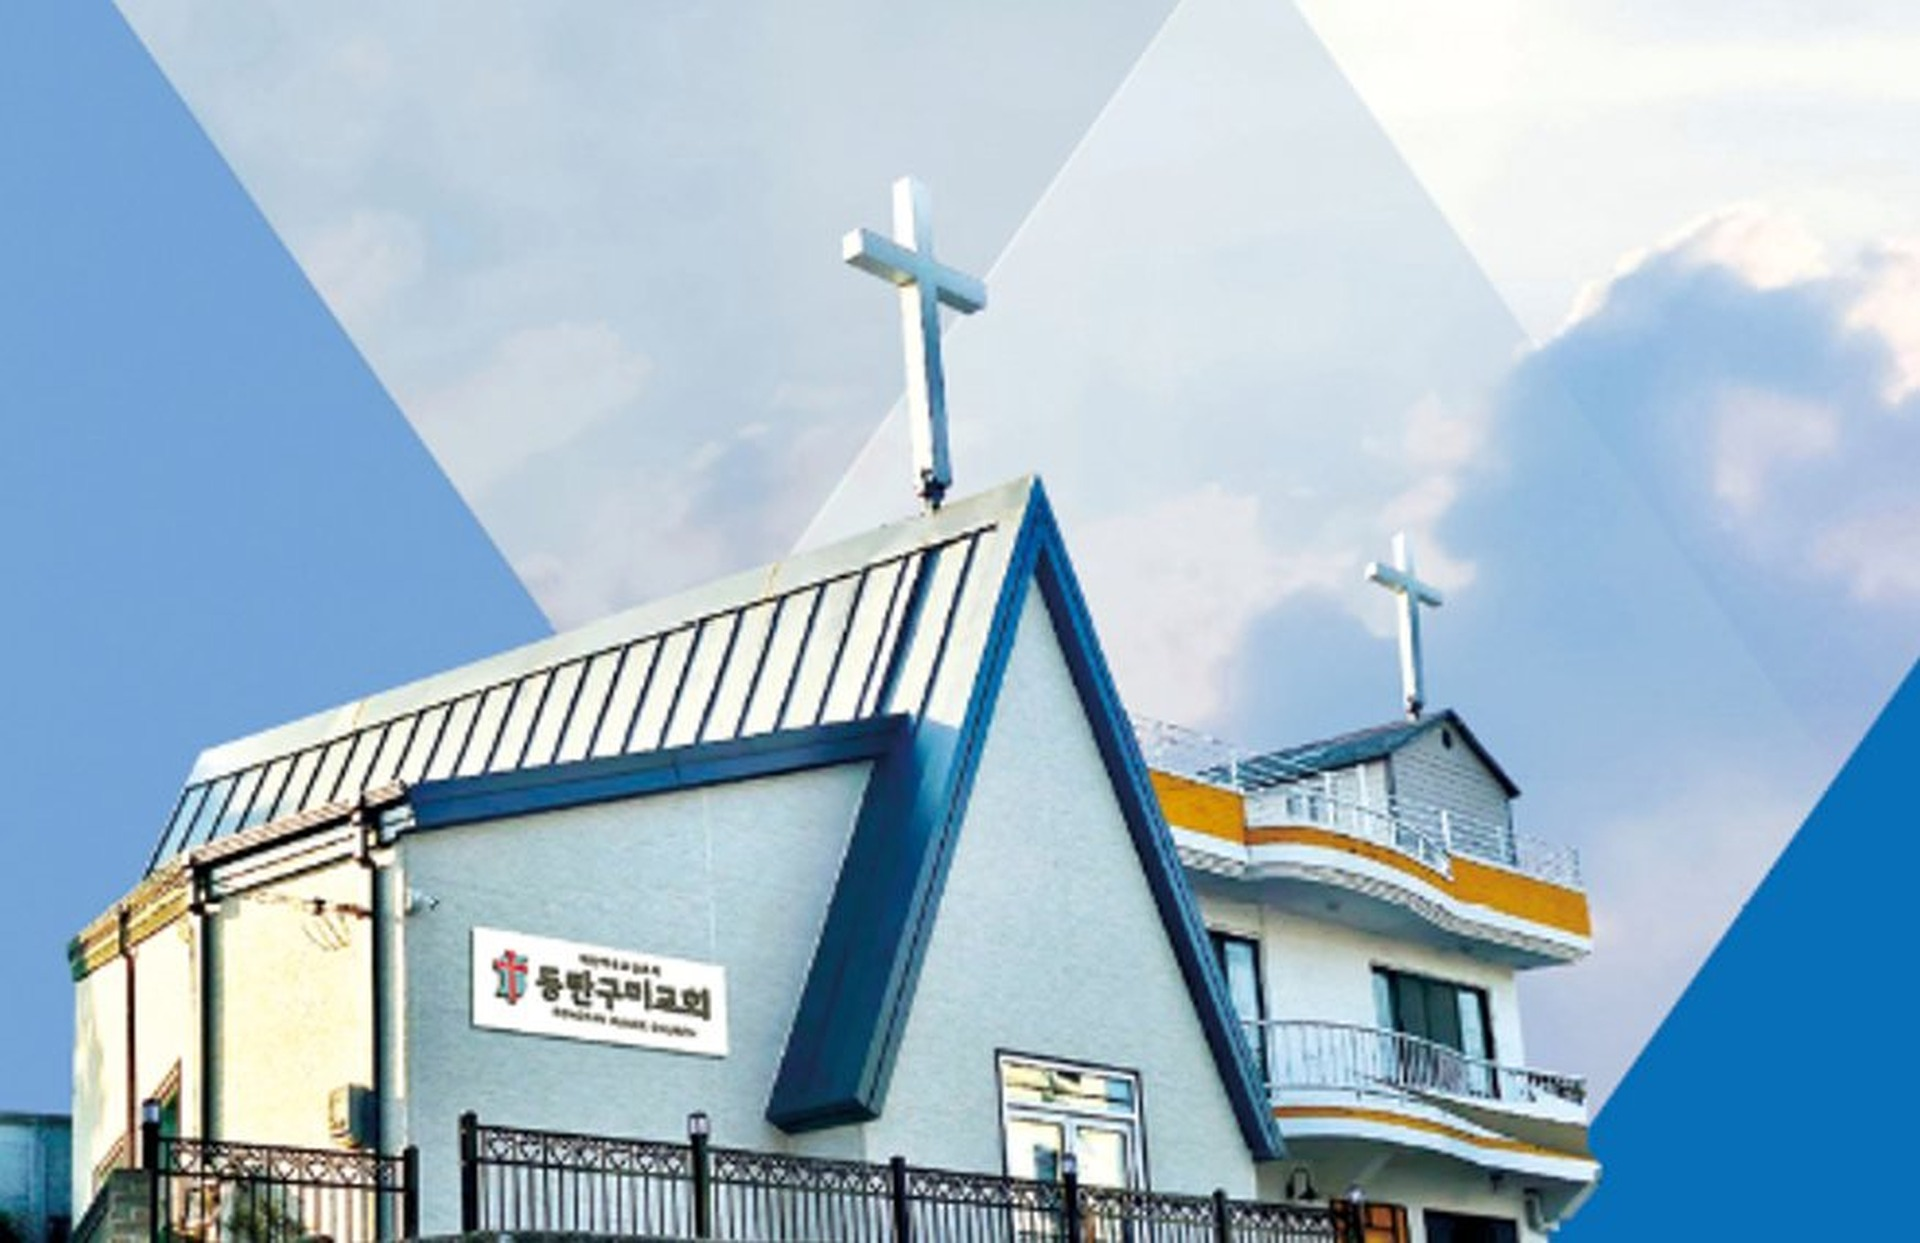
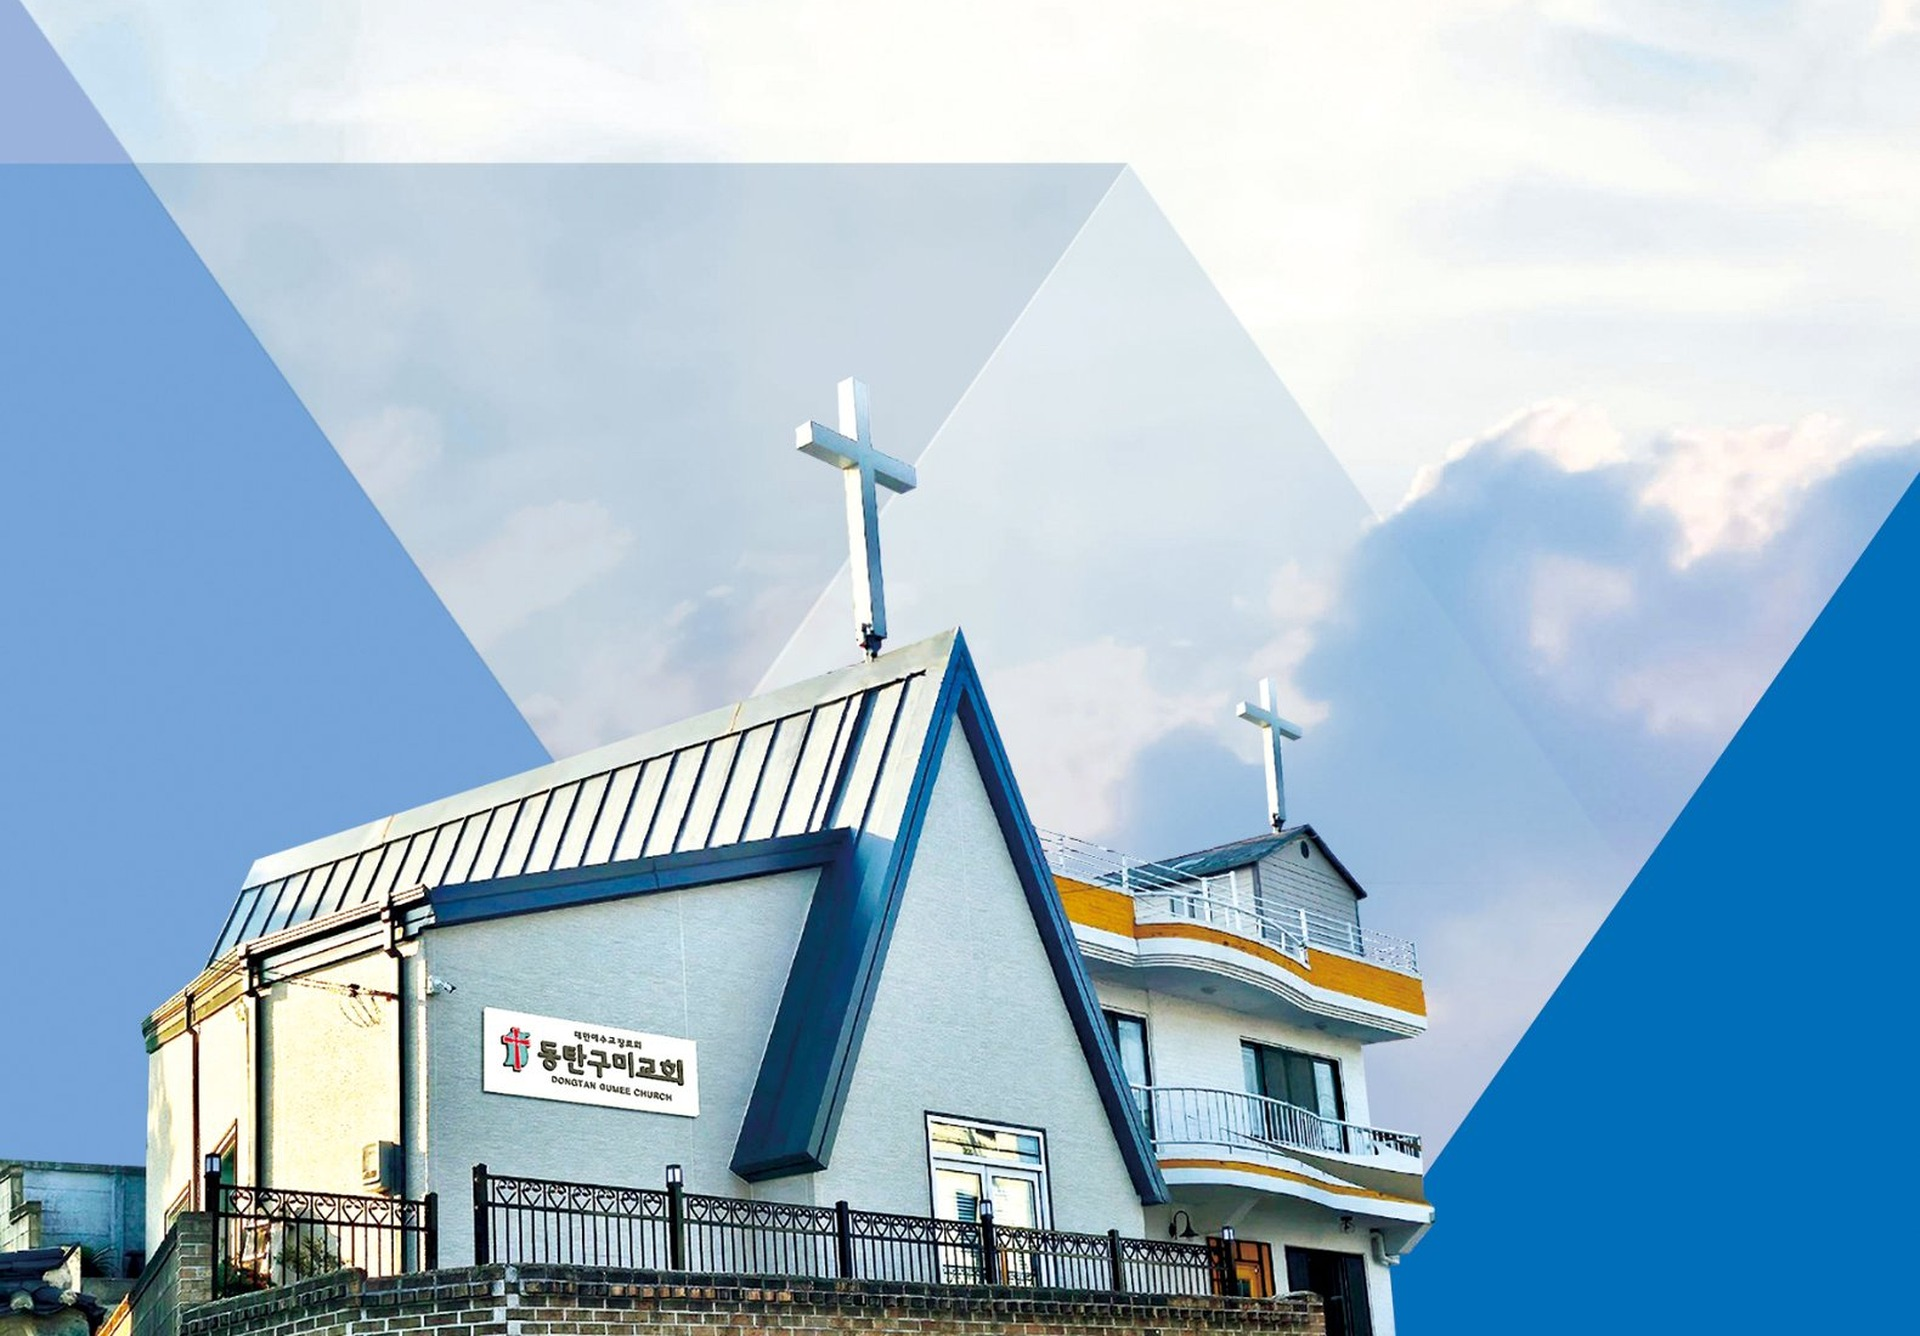
feat: 고객 자료 반영 - 실제 사진, 연혁, 약도 업데이트
- 히어로 이미지 v3 고화질 버전으로 교체
- 박명수 목사/김애경 전도사 실제 사진 적용
- 교회 연혁 8개 항목 반영 (2017~2024)
- 오시는 길 페이지에 교회 약도 이미지 추가
- about 페이지 하단 중복 사진 영역 제거

diff --git a/app/contact/page.tsx b/app/contact/page.tsx
@@ -13,8 +13,8 @@ export default function ContactPage() {
         {/* Hero */}
         <section className="page-hero">
           <Image
-            src="https://images.unsplash.com/photo-1708179538422-373c25988a5f?w=1920&h=600&fit=crop"
-            alt="교회 건물"
+            src="/church-hero.jpg"
+            alt="동탄구미교회 전경"
             fill
             className="object-cover"
             priority
@@ -34,21 +34,20 @@ export default function ContactPage() {
         <section className="section bg-white">
           <div className="container-custom">
             <div className="grid lg:grid-cols-2 gap-12">
-              <div className="rounded-2xl overflow-hidden min-h-[400px] relative">
+              <div className="rounded-2xl overflow-hidden bg-white border border-brown-100 p-4">
                 <Image
-                  src="https://images.unsplash.com/photo-1761530027871-5e0f4c13744d?w=800&h=600&fit=crop"
-                  alt="동탄구미교회 건물"
-                  fill
-                  className="object-cover"
+                  src="/church-map.jpg"
+                  alt="동탄구미교회 약도"
+                  width={745}
+                  height={548}
+                  className="w-full h-auto"
                 />
-                <div className="absolute bottom-0 left-0 right-0 bg-gradient-to-t from-black/70 to-transparent p-6">
-                  <div className="flex items-center gap-2 text-white">
-                    <svg className="w-5 h-5" fill="none" stroke="currentColor" viewBox="0 0 24 24">
-                      <path strokeLinecap="round" strokeLinejoin="round" strokeWidth={2} d="M17.657 16.657L13.414 20.9a1.998 1.998 0 01-2.827 0l-4.244-4.243a8 8 0 1111.314 0z" />
-                      <path strokeLinecap="round" strokeLinejoin="round" strokeWidth={2} d="M15 11a3 3 0 11-6 0 3 3 0 016 0z" />
-                    </svg>
-                    <span className="text-sm font-medium">경기도 화성시 동탄구 장지안길 3</span>
-                  </div>
+                <div className="mt-3 flex items-center gap-2 text-secondary">
+                  <svg className="w-5 h-5 text-primary" fill="none" stroke="currentColor" viewBox="0 0 24 24">
+                    <path strokeLinecap="round" strokeLinejoin="round" strokeWidth={2} d="M17.657 16.657L13.414 20.9a1.998 1.998 0 01-2.827 0l-4.244-4.243a8 8 0 1111.314 0z" />
+                    <path strokeLinecap="round" strokeLinejoin="round" strokeWidth={2} d="M15 11a3 3 0 11-6 0 3 3 0 016 0z" />
+                  </svg>
+                  <span className="text-sm font-medium">경기도 화성시 동탄구 장지안길 3</span>
                 </div>
               </div>
 
@@ -100,7 +99,7 @@ export default function ContactPage() {
                         <span className="w-5 h-5 bg-green-500 rounded text-white text-xs flex items-center justify-center font-bold">B</span>
                         버스
                       </p>
-                      <p className="text-secondary-light text-sm pl-7">동탄 지역 버스 이용 (노선 확인 중)</p>
+                      <p className="text-secondary-light text-sm pl-7">동탄대로 2길 / 경기동로 인근 (장지IC 방면)</p>
                     </div>
                     <div>
                       <p className="font-medium text-secondary-dark text-sm mb-1 flex items-center gap-2">
@@ -114,7 +113,7 @@ export default function ContactPage() {
                         <span className="w-5 h-5 bg-blue-500 rounded text-white text-xs flex items-center justify-center font-bold">C</span>
                         자가용
                       </p>
-                      <p className="text-secondary-light text-sm pl-7">네비게이션: &quot;경기도 화성시 동탄구 장지안길 3&quot; 검색</p>
+                      <p className="text-secondary-light text-sm pl-7">장지IC에서 약 2분 / 네비게이션: &quot;동탄구미교회&quot; 검색</p>
                     </div>
                   </div>
                 </div>

diff --git a/app/about/page.tsx b/app/about/page.tsx
@@ -7,8 +7,13 @@ import Image from 'next/image';
 
 export default function AboutPage() {
   const history = [
-    { year: 'TBD', event: '동탄구미교회 설립 (교회 연혁 확인 필요)' },
-    { year: 'TBD', event: '현재 위치로 이전 (경기도 화성시 동탄구 장지안길 3)' },
+    { year: '2017. 2', event: '동탄구미교회 개척 / 창립감사예배 / 박명수 목사 초대 담임목사 부임' },
+    { year: '2017. 3', event: '로뎀상담센터 개원' },
+    { year: '2017. 10', event: '대한예수교장로회(통합) 경기노회 가입' },
+    { year: '2019. 9', event: '동탄구미작은도서관 개관' },
+    { year: '2020. 3', event: '상가주택 매입하여 이전 (동탄순환대로 3가길 14-10)' },
+    { year: '2020. 6', event: '성전이전 감사예배' },
+    { year: '2024. 6', event: '현 성전 입당 감사예배 (장지안길 3)' },
   ];
 
   const staff = [
@@ -16,14 +21,14 @@ export default function AboutPage() {
       name: '박명수 목사',
       role: '담임목사',
       description: '장로회신학대학교 신학대학원 졸업. 말씀과 기도로 동탄구미교회를 섬기고 있습니다.',
-      image: 'https://images.unsplash.com/photo-1758600432277-5c76801e584a?w=300&h=300&fit=crop&crop=face',
+      image: '/pastor-park.jpg',
       link: '/pastor',
     },
     {
       name: '김애경 전도사',
       role: '아동부 담당',
       description: '아이들의 신앙 성장을 위해 헌신하며, 아동부 예배와 교육을 담당합니다.',
-      image: 'https://images.unsplash.com/photo-1580894732444-8ecded7900cd?w=300&h=300&fit=crop&crop=face',
+      image: '/staff-kim.jpg',
     },
     {
       name: '최민정 전도사',
@@ -71,8 +76,8 @@ export default function AboutPage() {
         {/* Page Hero */}
         <section className="page-hero">
           <Image
-            src="https://images.unsplash.com/photo-1604917272299-34d9d0f9dbad?w=1920&h=600&fit=crop"
-            alt="교회 건물"
+            src="/church-hero.jpg"
+            alt="동탄구미교회 전경"
             fill
             className="object-cover"
             priority
@@ -170,7 +175,7 @@ export default function AboutPage() {
             </div>
             <div className="max-w-2xl mx-auto">
               {history.map((item, index) => (
-                <div key={item.year} className="flex gap-6 mb-8 last:mb-0">
+                <div key={index} className="flex gap-6 mb-8 last:mb-0">
                   <div className="flex flex-col items-center">
                     <div className="w-4 h-4 bg-primary rounded-full ring-4 ring-primary/20" />
                     {index < history.length - 1 && <div className="w-0.5 h-full bg-brown-200 mt-2" />}
@@ -185,27 +190,6 @@ export default function AboutPage() {
           </div>
         </section>
 
-        {/* Church Building Photos */}
-        <section className="py-0">
-          <div className="grid md:grid-cols-2">
-            <div className="h-64 md:h-96 overflow-hidden relative">
-              <Image
-                src="/church-hero.jpg"
-                alt="동탄구미교회 전경"
-                fill
-                className="object-cover object-center"
-              />
-            </div>
-            <div className="h-64 md:h-96 overflow-hidden relative">
-              <Image
-                src="https://images.unsplash.com/photo-1664006262237-f885533eb5e8?w=800&h=600&fit=crop"
-                alt="교회 외관"
-                fill
-                className="object-cover"
-              />
-            </div>
-          </div>
-        </section>
       </main>
 
       <Footer />

diff --git a/app/pastor/page.tsx b/app/pastor/page.tsx
@@ -9,6 +9,7 @@ export default function PastorPage() {
   const career = [
     { year: '', event: '장로회신학대학교 신학대학원 졸업' },
     { year: '', event: '장로회신학대학교 대학원 졸업' },
+    { year: '2017', event: '동탄구미교회 개척 / 초대 담임목사 부임' },
     { year: '현재', event: '동탄구미교회 담임목사 시무 중' },
   ];
 
@@ -59,8 +60,8 @@ export default function PastorPage() {
         {/* Hero */}
         <section className="page-hero">
           <Image
-            src="https://images.unsplash.com/photo-1438232992991-995b7058bbb3?w=1920&h=600&fit=crop"
-            alt="교회 배경"
+            src="/church-hero.jpg"
+            alt="동탄구미교회 전경"
             fill
             className="object-cover"
             priority
@@ -82,10 +83,10 @@ export default function PastorPage() {
               <div className="lg:w-2/5 flex-shrink-0">
                 <div className="rounded-2xl overflow-hidden shadow-xl">
                   <Image
-                    src="https://images.unsplash.com/photo-1758600432277-5c76801e584a?w=600&h=750&fit=crop&crop=face"
-                    alt="담임목사"
+                    src="/pastor-park.jpg"
+                    alt="박명수 담임목사"
                     width={600}
-                    height={750}
+                    height={754}
                     className="w-full h-auto"
                   />
                 </div>

diff --git a/app/page.tsx b/app/page.tsx
@@ -43,7 +43,7 @@ export default function Home() {
             src="/church-hero.jpg"
             alt="동탄구미교회 전경"
             width={1920}
-            height={1243}
+            height={1336}
             className="absolute top-0 left-1/2 -translate-x-1/2 h-full w-auto max-w-none"
             priority
           />
@@ -119,8 +119,8 @@ export default function Home() {
             <div className="max-w-5xl mx-auto flex flex-col md:flex-row items-center gap-10">
               <div className="w-48 h-48 md:w-56 md:h-56 rounded-full overflow-hidden border-4 border-primary/30 shadow-2xl flex-shrink-0 ring-4 ring-white/10">
                 <Image
-                  src="https://images.unsplash.com/photo-1758600432277-5c76801e584a?w=400&h=400&fit=crop&crop=face"
-                  alt="담임목사"
+                  src="/pastor-park.jpg"
+                  alt="박명수 담임목사"
                   width={224}
                   height={224}
                   className="w-full h-full object-cover"
